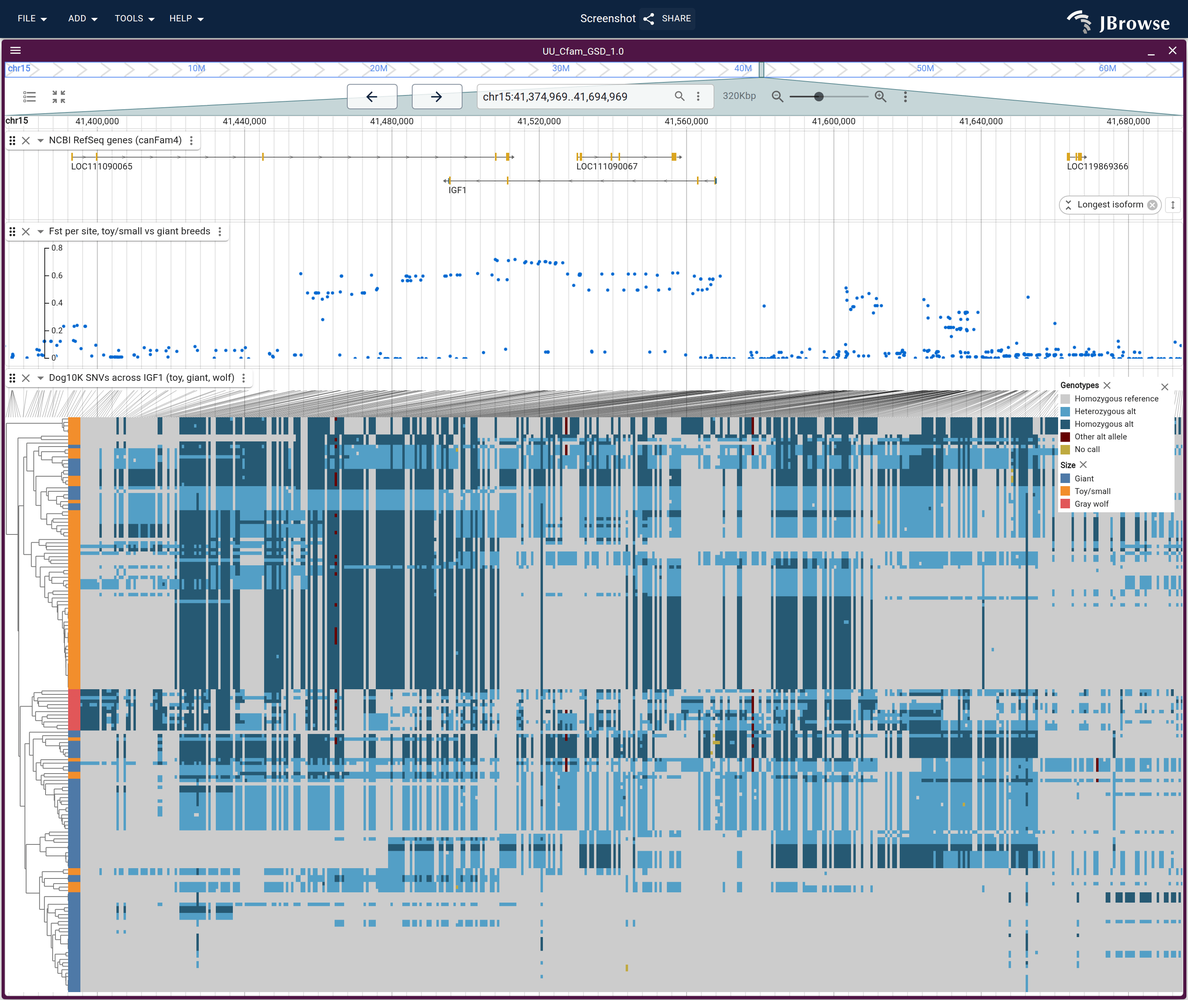
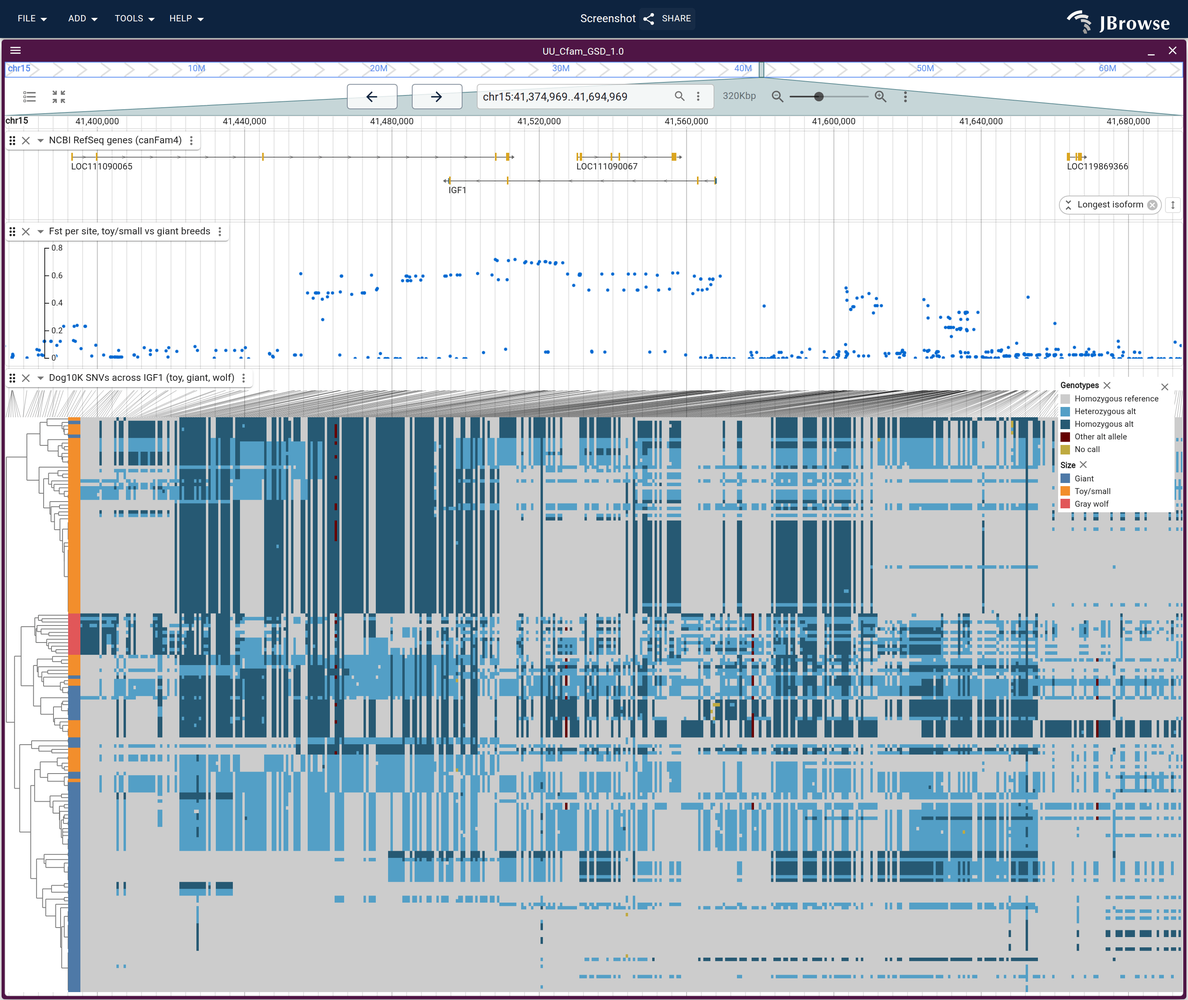
feat(variants): let a session say which locus the clustering runs over
Review, on dog10k-igf1-haplotype: "not sure if it should may cluster in
narrower area and then zoom out."

It should, and it is measurably the better figure. Clustering is region-scoped,
so over the whole 320 kb window the estimator is fed as many undifferentiated
columns as separating ones. Ordering the rows on the 140 kb differentiated core
and drawing the published window instead takes the size swatch from 22 colour
blocks down to 17, and the two longest blocks from 49% of painted rows to 67%
-- the same summary the window sweep in the spec comment is scored on, so the
two are comparable.

`LinearMultiSampleVariantDisplay` takes `clusterRegion` beside `runClustering`:
a locstring, whitespace-separated for several, resolved against the assembly on
the client because that is what turns a locstring into a region. It throws on a
bad refName or an empty range rather than falling back to the visible region, so
a typo cannot quietly cluster over whatever happened to be on screen and look
like it worked. Cleared with `runClustering`, since it is the trigger's argument
rather than a setting of its own.

The figure was a click-chain first -- open at the core, cluster, type the wide
window into the location box -- which rendered the same pixels and was wrong
twice: its live link opened the core rather than the frame a reader is looking
at, and "cluster here, look there" lived in the capture instead of in the
session, so no shared link could carry it.
[…]

diff --git a/website/src/lib/galleryLinks.generated.ts b/website/src/lib/galleryLinks.generated.ts
@@ -231,7 +231,7 @@ export const specSessionUrls: Record<string, string> = {
   "dog10k-fgf4-retrogene-synteny": "?config=test_data/dog10k/config.json&session=spec-%7B%22views%22%3A%5B%7B%22type%22%3A%22LinearSyntenyView%22%2C%22drawCurves%22%3Afalse%2C%22cigarMode%22%3A%22matches%22%2C%22alpha%22%3A0.45%2C%22tracks%22%3A%5B%5B%22dog10k_fgf4_retro_cfa18%22%5D%2C%5B%22dog10k_fgf4_retro_cfa12%22%5D%5D%2C%22views%22%3A%5B%7B%22assembly%22%3A%22FGF4retro-CFA18%22%2C%22loc%22%3A%22FGF4retro-CFA18%3A1-2625%22%2C%22tracks%22%3A%5B%7B%22trackId%22%3A%22dog10k_fgf4_retro_cfa18_genes%22%2C%22type%22%3A%22LinearBasicDisplay%22%2C%22height%22%3A55%7D%5D%7D%2C%7B%22assembly%22%3A%22UU_Cfam_GSD_1.0%22%2C%22loc%22%3A%22chr18%3A48%2C869%2C100-48%2C872%2C900%22%2C%22tracks%22%3A%5B%7B%22trackId%22%3A%22canFam4_ncbi_refseq%22%2C%22type%22%3A%22LinearBasicDisplay%22%2C%22height%22%3A60%7D%2C%7B%22trackId%22%3A%22dog10k_fgf4_svs%22%2C%22type%22%3A%22LinearMultiSampleVariantDisplay%22%2C%22height%22%3A690%2C%22colorBy%22%3A%22group%22%7D%5D%7D%2C%7B%22assembly%22%3A%22FGF4retro-CFA12%22%2C%22loc%22%3A%22FGF4retro-CFA12%3A2-2639%22%2C%22tracks%22%3A%5B%7B%22trackId%22%3A%22dog10k_fgf4_retro_cfa12_genes%22%2C%22type%22%3A%22LinearBasicDisplay%22%2C%22height%22%3A55%7D%5D%7D%5D%7D%5D%7D&sessionName=Screenshot",
   "dog10k-cyp1a2-nonsense": "?config=test_data/dog10k/config.json&session=spec-%7B%22views%22%3A%5B%7B%22type%22%3A%22LinearGenomeView%22%2C%22assembly%22%3A%22UU_Cfam_GSD_1.0%22%2C%22loc%22%3A%22chr30%3A38%2C261%2C590-38%2C261%2C690%22%2C%22tracks%22%3A%5B%7B%22trackId%22%3A%22UU_Cfam_GSD_1.0-ReferenceSequenceTrack%22%2C%22type%22%3A%22LinearReferenceSequenceDisplay%22%2C%22showForward%22%3Atrue%2C%22showReverse%22%3Afalse%2C%22showTranslation%22%3Atrue%2C%22height%22%3A80%7D%2C%7B%22trackId%22%3A%22canFam4_ncbi_refseq%22%2C%22type%22%3A%22LinearBasicDisplay%22%2C%22height%22%3A60%7D%2C%7B%22trackId%22%3A%22dog10k_cyp1a2_snvs_positional%22%2C%22type%22%3A%22LinearVariantDisplay%22%2C%22height%22%3A60%2C%22jexlFilters%22%3A%5B%22get(feature%2C'start')%20%3D%3D%2038261634%22%5D%7D%2C%7B%22trackId%22%3A%22dog10k_cyp1a2_snvs%22%2C%22type%22%3A%22LinearMultiSampleVariantDisplay%22%2C%22height%22%3A500%2C%22layout%22%3A%5B%7B%22name%22%3A%22GHND000001%22%2C%22label%22%3A%22German%20Hound%201%22%2C%22color%22%3A%22%230072B2%22%7D%2C%7B%22name%22%3A%22GHND000002%22%2C%22label%22%3A%22German%20Hound%202%22%2C%22color%22%3A%22%230072B2%22%7D%2C%7B%22name%22%3A%22GHND000003%22%2C%22label%22%3A%22German%20Hound%203%22%2C%22color%22%3A%22%230072B2%22%7D%2C%7B%22name%22%3A%22GHND000004%22%2C%22label%22%3A%22German%20Hound%204%22%2C%22color%22%3A%22%230072B2%22%7D%2C%7B%22name%22%3A%22GHND000005%22%2C%22label%22%3A%22German%20Hound%205%22%2C%22color%22%3A%22%230072B2%22%7D%2C%7B%22name%22%3A%22GHND000006%22%2C%22label%22%3A%22German%20Hound%206%22%2C%22color%22%3A%22%230072B2%22%7D%2C%7B%22name%22%3A%22BHSP000001%22%2C%22label%22%3A%22Bohemian%20Shepherd%201%22%2C%22color%22%3A%22%230072B2%22%7D%2C%7B%22name%22%3A%22BHSP000002%22%2C%22label%22%3A%22Bohemian%20Shepherd%202%22%2C%22color%22%3A%22%230072B2%22%7D%2C%7B%22name%22%3A%22BHSP000003%22%2C%22label%22%3A%22Bohemian%20Shepherd%203%22%2C%22color%22%3A%22%230072B2%22%7D%2C%7B%22name%22%3A%22BHSP000004%22%2C%22label%22%3A%22Bohemian%20Shepherd%204%22%2C%22color%22%3A%22%230072B2%22%7D%2C%7B%22name%22%3A%22BHSP000005%22%2C%22label%22%3A%22Bohemian%20Shepherd%205%22%2C%22color%22%3A%22%230072B2%22%7D%2C%7B%22name%22%3A%22BHSP000006%22%2C%22label%22%3A%22Bohemian%20Shepherd%206%22%2C%22color%22%3A%22%230072B2%22%7D%2C%7B%22name%22%3A%22SSHP000001%22%2C%22label%22%3A%22Shetland%20Sheepdog%201%22%2C%22color%22%3A%22%230072B2%22%7D%2C%7B%22name%22%3A%22SSHP000002%22%2C%22label%22%3A%22Shetland%20Sheepdog%202%22%2C%22color%22%3A%22%230072B2%22%7D%2C%7B%22name%22%3A%22SSHP000003%22%2C%22label%22%3A%22Shetland%20Sheepdog%203%22%2C%22color%22%3A%22%230072B2%22%7D%2C%7B%22name%22%3A%22SSHP000004%22%2C%22label%22%3A%22Shetland%20Sheepdog%204%22%2C%22color%22%3A%22%230072B2%22%7D%2C%7B%22name%22%3A%22BRTR000001%22%2C%22label%22%3A%22Black%20Russian%20Terrier%201%22%2C%22color%22%3A%22%230072B2%22%7D%2C%7B%22name%22%3A%22BRTR000002%22%2C%22label%22%3A%22Black%20Russian%20Terrier%202%22%2C%22color%22%3A%22%230072B2%22%7D%2C%7B%22name%22%3A%22BRTR000003%22%2C%22label%22%3A%22Black%20Russian%20Terrier%203%22%2C%22color%22%3A%22%230072B2%22%7D%2C%7B%22name%22%3A%22BRTR000004%22%2C%22label%22%3A%22Black%20Russian%20Terrier%204%22%2C%22color%22%3A%22%230072B2%22%7D%2C%7B%22name%22%3A%22BRTR000005%22%2C%22label%22%3A%22Black%20Russian%20Terrier%205%22%2C%22color%22%3A%22%230072B2%22%7D%2C%7B%22name%22%3A%22KEES000002%22%2C%22label%22%3A%22Keeshond%201%22%2C%22color%22%3A%22%230072B2%22%7D%2C%7B%22name%22%3A%22KEES000003%22%2C%22label%22%3A%22Keeshond%202%22%2C%22color%22%3A%22%230072B2%22%7D%2C%7B%22name%22%3A%22KEES000004%22%2C%22label%22%3A%22Keeshond%203%22%2C%22color%22%3A%22%230072B2%22%7D%2C%7B%22name%22%3A%22KEES000005%22%2C%22label%22%3A%22Keeshond%204%22%2C%22color%22%3A%22%230072B2%22%7D%2C%7B%22name%22%3A%22KEES000006%22%2C%22label%22%3A%22Keeshond%205%22%2C%22color%22%3A%22%230072B2%22%7D%2C%7B%22name%22%3A%22LABR000001%22%2C%22label%22%3A%22Labrador%20Retriever%201%22%2C%22color%22%3A%22%23999999%22%7D%2C%7B%22name%22%3A%22LABR000002%22%2C%22label%22%3A%22Labrador%20Retriever%202%22%2C%22color%22%3A%22%23999999%22%7D%2C%7B%22name%22%3A%22LABR000003%22%2C%22label%22%3A%22Labrador%20Retriever%203%22%2C%22color%22%3A%22%23999999%22%7D%2C%7B%22name%22%3A%22LABR000004%22%2C%22label%22%3A%22Labrador%20Retriever%204%22%2C%22color%22%3A%22%23999999%22%7D%2C%7B%22name%22%3A%22LABR000005%22%2C%22label%22%3A%22Labrador%20Retriever%205%22%2C%22color%22%3A%22%23999999%22%7D%2C%7B%22name%22%3A%22BOXR000001%22%2C%22label%22%3A%22Boxer%201%22%2C%22color%22%3A%22%23999999%22%7D%2C%7B%22name%22%3A%22BOXR000002%22%2C%22label%22%3A%22Boxer%202%22%2C%22color%22%3A%22%23999999%22%7D%2C%7B%22name%22%3A%22BOXR000003%22%2C%22label%22%3A%22Boxer%203%22%2C%22color%22%3A%22%23999999%22%7D%2C%7B%22name%22%3A%22BOXR000004%22%2C%22label%22%3A%22Boxer%204%22%2C%22color%22%3A%22%23999999%22%7D%2C%7B%22name%22%3A%22CLUPGR000001%22%2C%22label%22%3A%22Wolf%201%22%2C%22color%22%3A%22%23E69F00%22%7D%2C%7B%22name%22%3A%22CLUPGR000002%22%2C%22label%22%3A%22Wolf%202%22%2C%22color%22%3A%22%23E69F00%22%7D%2C%7B%22name%22%3A%22CLUPGR000003%22%2C%22label%22%3A%22Wolf%203%22%2C%22color%22%3A%22%23E69F00%22%7D%2C%7B%22name%22%3A%22CLUPGR000004%22%2C%22label%22%3A%22Wolf%204%22%2C%22color%22%3A%22%23E69F00%22%7D%5D%2C%22jexlFilters%22%3A%5B%22jexl%3Aget(feature%2C'start')%20%3D%3D%2038261634%22%5D%7D%5D%7D%5D%7D&sessionName=Screenshot",
   "dog10k-cyp1a2-cohort-copy-number": "?config=test_data/dog10k/config.json&session=spec-%7B%22views%22%3A%5B%7B%22type%22%3A%22LinearGenomeView%22%2C%22assembly%22%3A%22UU_Cfam_GSD_1.0%22%2C%22loc%22%3A%22chr30%3A38%2C210%2C000-38%2C395%2C000%22%2C%22tracks%22%3A%5B%7B%22trackId%22%3A%22canFam4_ncbi_refseq%22%2C%22type%22%3A%22LinearBasicDisplay%22%2C%22height%22%3A90%7D%2C%7B%22trackId%22%3A%22dog10k_cyp1a2_cpg%22%2C%22type%22%3A%22LinearBasicDisplay%22%2C%22height%22%3A62%7D%2C%7B%22trackId%22%3A%22dog10k_cyp1a2_breed_cn%22%2C%22type%22%3A%22LinearMultiRowFeatureDisplay%22%2C%22height%22%3A380%7D%2C%7B%22trackId%22%3A%22dog10k_cyp1a2_cohort_cn%22%2C%22type%22%3A%22LinearMultiRowFeatureDisplay%22%2C%22height%22%3A300%2C%22runClustering%22%3Atrue%7D%5D%7D%5D%7D&sessionName=Screenshot",
-  "dog10k-igf1-haplotype": "?config=test_data/dog10k/config.json&session=spec-%7B%22views%22%3A%5B%7B%22type%22%3A%22LinearGenomeView%22%2C%22assembly%22%3A%22UU_Cfam_GSD_1.0%22%2C%22loc%22%3A%22chr15%3A41%2C375%2C000-41%2C695%2C000%22%2C%22tracks%22%3A%5B%7B%22trackId%22%3A%22canFam4_ncbi_refseq%22%2C%22type%22%3A%22LinearBasicDisplay%22%2C%22geneGlyphMode%22%3A%22longestCoding%22%2C%22height%22%3A80%7D%2C%7B%22trackId%22%3A%22dog10k_igf1_fst%22%2C%22type%22%3A%22LinearManhattanDisplay%22%2C%22height%22%3A150%2C%22scatterPointSize%22%3A4%2C%22minScore%22%3A0%2C%22maxScore%22%3A0.8%7D%2C%7B%22trackId%22%3A%22dog10k_igf1_haplotype%22%2C%22type%22%3A%22LinearMultiSampleVariantMatrixDisplay%22%2C%22height%22%3A760%2C%22lineZoneHeight%22%3A34%2C%22runClustering%22%3Atrue%2C%22colorBy%22%3A%22size%22%7D%5D%7D%5D%7D&sessionName=Screenshot",
+  "dog10k-igf1-haplotype": "?config=test_data/dog10k/config.json&session=spec-%7B%22views%22%3A%5B%7B%22type%22%3A%22LinearGenomeView%22%2C%22assembly%22%3A%22UU_Cfam_GSD_1.0%22%2C%22loc%22%3A%22chr15%3A41%2C375%2C000-41%2C695%2C000%22%2C%22tracks%22%3A%5B%7B%22trackId%22%3A%22canFam4_ncbi_refseq%22%2C%22type%22%3A%22LinearBasicDisplay%22%2C%22geneGlyphMode%22%3A%22longestCoding%22%2C%22height%22%3A80%7D%2C%7B%22trackId%22%3A%22dog10k_igf1_fst%22%2C%22type%22%3A%22LinearManhattanDisplay%22%2C%22height%22%3A150%2C%22scatterPointSize%22%3A4%2C%22minScore%22%3A0%2C%22maxScore%22%3A0.8%7D%2C%7B%22trackId%22%3A%22dog10k_igf1_haplotype%22%2C%22type%22%3A%22LinearMultiSampleVariantMatrixDisplay%22%2C%22height%22%3A760%2C%22lineZoneHeight%22%3A34%2C%22runClustering%22%3Atrue%2C%22clusterRegion%22%3A%22chr15%3A41%2C440%2C000-41%2C580%2C000%22%2C%22colorBy%22%3A%22size%22%7D%5D%7D%5D%7D&sessionName=Screenshot",
   "gallery/copynumber_clustered": "?config=test_data/config_demo.json&session=spec-%7B%22views%22%3A%5B%7B%22type%22%3A%22LinearGenomeView%22%2C%22assembly%22%3A%22hg38%22%2C%22loc%22%3A%22chr3%3A162%2C275%2C163-163%2C360%2C944%22%2C%22tracks%22%3A%5B%7B%22trackId%22%3A%22pur_copynumber_1000g%22%2C%22type%22%3A%22MultiLinearWiggleDisplay%22%2C%22height%22%3A420%2C%22defaultRendering%22%3A%22multirowdensity%22%2C%22autoscale%22%3A%22local%22%2C%22showTree%22%3Afalse%7D%5D%7D%5D%7D&sessionName=Screenshot",
   "gallery/sarscov2_polyprotein": "?config=test_data%2Fsars-cov2%2Fconfig.json&session=spec-{\"views\":[{\"assembly\":\"Wuhan-Hu-1\",\"loc\":\"NC_045512.2:266-21555\",\"type\":\"LinearGenomeView\",\"colorByCDS\":true,\"tracks\":[{\"trackId\":\"ncbi_genes_with_mature_peptides\",\"displaySnapshot\":{\"type\":\"LinearBasicDisplay\",\"subfeatureLabels\":\"below\"}}]}]}",
   "gallery/fiberseq_gapdh": "?config=test_data/config_demo.json&session=spec-%7B%22sessionTracks%22%3A%5B%7B%22type%22%3A%22FeatureTrack%22%2C%22trackId%22%3A%22gencode_promoter_hg38_ucsc%22%2C%22name%22%3A%22GENCODE%20v48%20promoter%20windows%20(UCSC)%22%2C%22assemblyNames%22%3A%5B%22hg38%22%5D%2C%22adapter%22%3A%7B%22type%22%3A%22Gff3TabixAdapter%22%2C%22gffGzLocation%22%3A%7B%22uri%22%3A%22https%3A%2F%2Fjbrowse.org%2Fucsc%2Fhg38%2Fgencode.v48.promoter_windows.sorted.gff3.gz%22%2C%22locationType%22%3A%22UriLocation%22%7D%2C%22index%22%3A%7B%22location%22%3A%7B%22uri%22%3A%22https%3A%2F%2Fjbrowse.org%2Fucsc%2Fhg38%2Fgencode.v48.promoter_windows.sorted.gff3.gz.csi%22%2C%22locationType%22%3A%22UriLocation%22%7D%2C%22indexType%22%3A%22CSI%22%7D%7D%7D%5D%2C%22views%22%3A%5B%7B%22assembly%22%3A%22hg38%22%2C%22loc%22%3A%2212%3A6530000-6539000%22%2C%22type%22%3A%22LinearGenomeView%22%2C%22tracks%22%3A%5B%7B%22trackId%22%3A%22ncbi_refseq_109_hg38_latest%22%2C%22type%22%3A%22LinearBasicDisplay%22%2C%22geneGlyphMode%22%3A%22longestCoding%22%7D%2C%7B%22trackId%22%3A%22gencode_promoter_hg38_ucsc%22%2C%22type%22%3A%22LinearBasicDisplay%22%2C%22height%22%3A50%7D%2C%7B%22trackId%22%3A%22catlas_scatac_celltypes_hg38%22%2C%22type%22%3A%22MultiLinearWiggleDisplay%22%2C%22height%22%3A150%7D%2C%7B%22trackId%22%3A%22PAY22766-nanopore%22%2C%22type%22%3A%22LinearAlignmentsDisplay%22%2C%22height%22%3A450%2C%22colorBy%22%3A%7B%22type%22%3A%22modifications%22%2C%22modifications%22%3A%7B%22shownModifications%22%3A%5B%22a%22%5D%7D%7D%2C%22displayMode%22%3A%22compact%22%2C%22showLegend%22%3Atrue%7D%5D%7D%5D%7D&sessionName=Screenshot",

diff --git a/plugins/variants/src/shared/getMultiSampleVariantClusterAutorun.ts b/plugins/variants/src/shared/getMultiSampleVariantClusterAutorun.ts
@@ -2,20 +2,24 @@ import { getSession } from '@jbrowse/core/util'
 import { getRpcSessionId } from '@jbrowse/core/util/tracks'
 import { setupRunClusteringAutorun } from '@jbrowse/tree-sidebar'
 
+import { parseClusterRegion } from './clusterRegion.ts'
 import { runGenotypeClustering } from './runGenotypeClustering.ts'
 
 import type { ReducedModel } from './clusterModelTypes.ts'
-import type { RpcStatus } from '@jbrowse/core/util'
+import type { Region, RpcStatus } from '@jbrowse/core/util'
 import type { IStateTreeNode } from '@jbrowse/mobx-state-tree'
+import type { LinearGenomeViewModel } from '@jbrowse/plugin-linear-genome-view'
 
 // The multi-sample-variant "Cluster rows by genotype" flavor of the shared
 // declarative-clustering autorun: fires once on `runClustering: true` and runs
-// the real genotype-matrix RPC over the current view regions.
+// the real genotype-matrix RPC over `clusterRegion` if the session named one,
+// or over the current view regions if it did not.
 export function getMultiSampleVariantClusterAutorun(
   self: IStateTreeNode &
     ReducedModel & {
       clusteringReady: boolean
       runClustering?: boolean
+      clusterRegion?: string
       setRunClustering: (arg?: boolean) => void
       setStatusMessage: (status?: RpcStatus) => void
       makeStatusCallback: () => (status: RpcStatus) => void
@@ -24,14 +28,37 @@ export function getMultiSampleVariantClusterAutorun(
   setupRunClusteringAutorun(self, {
     name: 'AutoRunMultiSampleVariantClustering',
     ready: () => self.clusteringReady,
-    run: (view, stopToken, statusCallback) =>
+    run: async (view, stopToken, statusCallback) =>
       runGenotypeClustering({
         model: self,
         rpcManager: getSession(self).rpcManager,
         sessionId: getRpcSessionId(self),
-        regions: view.dynamicBlocks.contentBlocks,
+        regions: await clusterRegions(self, view),
         stopToken,
         statusCallback,
       }),
   })
+}
+
+// The declared locus if there is one, else what is on screen. Resolved here
+// rather than in the RPC because the assembly is what turns a locstring into a
+// region, and only the client has one.
+async function clusterRegions(
+  self: IStateTreeNode & { clusterRegion?: string },
+  view: LinearGenomeViewModel,
+): Promise<Region[]> {
+  const { clusterRegion } = self
+  const assemblyName = view.assemblyNames[0]
+  if (!clusterRegion || !assemblyName) {
+    return view.dynamicBlocks.contentBlocks
+  }
+  // waitForAssembly, not `get`: the autorun can fire on the first ready tick,
+  // before the assembly manager has finished loading refNames, and a locstring
+  // cannot be validated without them
+  const assembly =
+    await getSession(self).assemblyManager.waitForAssembly(assemblyName)
+  if (!assembly) {
+    throw new Error(`assembly ${assemblyName} not found`)
+  }
+  return parseClusterRegion(clusterRegion, assembly, assemblyName)
 }

diff --git a/plugins/variants/src/shared/clusterRegion.ts b/plugins/variants/src/shared/clusterRegion.ts
@@ -1,0 +1,54 @@
+import { parseLocString } from '@jbrowse/core/util'
+
+import type { Region } from '@jbrowse/core/util'
+
+// Only what the parse reads off an assembly, so it stays testable on plain data
+// rather than needing a live MST instance. `Assembly` satisfies it.
+export interface ClusterRegionAssembly {
+  isValidRefName: (refName: string) => boolean
+  getCanonicalRefName2: (refName: string) => string
+  regions?: readonly { refName: string; end: number }[]
+}
+
+// Resolves a display's `clusterRegion` locstring to the regions the clustering
+// RPC runs over, so "cluster here" can be said in a session instead of driven
+// through the location box.
+//
+// It is a locstring rather than a Region object because that is what a user
+// types and what every other declarative launch spec in the app takes; and it
+// takes several, whitespace-separated, because the clustering estimator already
+// accepts a region list (the visible blocks are one) and a multi-region view is
+// the case where "the region I care about" is genuinely more than one span.
+//
+// Throws rather than falling back to the visible region: a locstring with a
+// typo in it would otherwise cluster over whatever happened to be on screen and
+// look like it worked.
+export function parseClusterRegion(
+  locStrings: string,
+  assembly: ClusterRegionAssembly,
+  assemblyName: string,
+): Region[] {
+  return locStrings
+    .trim()
+    .split(/\s+/)
+    .filter(Boolean)
+    .map(locString => {
+      const parsed = parseLocString(locString, refName =>
+        assembly.isValidRefName(refName),
+      )
+      const refName = assembly.getCanonicalRefName2(parsed.refName)
+      // A bare refName means the whole contig, so its length is required rather
+      // than defaulted: a missing length would turn "no length on record" into
+      // an empty region, which reads as the user having typed a bad range.
+      const refLength = assembly.regions?.find(r => r.refName === refName)?.end
+      if (refLength === undefined) {
+        throw new Error(`no length on record for "${refName}"`)
+      }
+      const start = Math.max(parsed.start ?? 0, 0)
+      const end = Math.min(parsed.end ?? refLength, refLength)
+      if (end <= start) {
+        throw new Error(`empty clusterRegion: "${locString}"`)
+      }
+      return { assemblyName, refName, start, end }
+    })
+}

diff --git a/website/scripts/specs/dog10k.ts b/website/scripts/specs/dog10k.ts
@@ -1373,6 +1373,25 @@ export const dog10kSpecs: ScreenshotSpec[] = [
   // context and dilutes the matrix further, so it is not the answer to "zoom
   // out" either.
   //
+  // CLUSTERED ON THE CORE, DRAWN WIDE, which is the other half of the same
+  // review ("not sure if it should may cluster in narrower area and then zoom
+  // out"). It works and it is measurably better: clustering is region-scoped, so
+  // over the whole 320 kb the estimator is fed as many undifferentiated columns
+  // as separating ones. Running it over the 140 kb core instead and then
+  // navigating to the published window takes the row order from 22 colour
+  // blocks down the size swatch to 17, and the two longest blocks from 49% of
+  // painted rows to 67% -- the same summary the window sweep above is scored
+  // on, so the two are comparable.
+  //
+  // It is a `clusterRegion` on the display rather than a click-chain in this
+  // spec. The first version drove the UI -- open at the core, cluster, type the
+  // wide window into the location box -- which worked and was wrong twice: the
+  // figure's live link opened the core rather than the frame a reader is
+  // looking at, and the knowledge "cluster here, look there" lived in the
+  // capture instead of in the session, so no shared link could carry it. The
+  // property makes the whole figure declarative again, and says the same thing
+  // to a user.
+  //
   // `runClustering` orders the rows by genotype similarity. The size swatch
   // comes from the samples TSV and is applied afterwards, so the row order and
   // the swatch are independent.
@@ -1426,6 +1445,10 @@ export const dog10kSpecs: ScreenshotSpec[] = [
           height: 760,
           lineZoneHeight: 34,
           runClustering: true,
+          // the 140 kb differentiated core, not the 320 kb on screen: the rows
+          // are ordered on the columns that separate the panels, then drawn
+          // against the flank that shows where the signal stops
+          clusterRegion: 'chr15:41,440,000-41,580,000',
           colorBy: 'size',
         },
       ],

diff --git a/plugins/variants/src/shared/clusterRegion.test.ts b/plugins/variants/src/shared/clusterRegion.test.ts
@@ -1,0 +1,56 @@
+import { parseClusterRegion } from './clusterRegion.ts'
+
+const assembly = {
+  isValidRefName: (r: string) => ['chr15', '15'].includes(r),
+  getCanonicalRefName2: (r: string) => (r === '15' ? 'chr15' : r),
+  regions: [{ refName: 'chr15', end: 100_000_000 }],
+}
+
+test('a locstring becomes one region on the canonical refName', () => {
+  expect(
+    parseClusterRegion('chr15:41,440,000-41,580,000', assembly, 'dog'),
+  ).toEqual([
+    { assemblyName: 'dog', refName: 'chr15', start: 41_439_999, end: 41_580_000 },
+  ])
+})
+
+test('an alias resolves, and commas are optional', () => {
+  const [region] = parseClusterRegion('15:41440000-41580000', assembly, 'dog')
+  expect(region?.refName).toBe('chr15')
+})
+
+test('several regions, whitespace separated', () => {
+  expect(
+    parseClusterRegion('chr15:1-1000 chr15:2000-3000', assembly, 'dog'),
+  ).toHaveLength(2)
+})
+
+test('a bare refName is the whole contig', () => {
+  expect(parseClusterRegion('chr15', assembly, 'dog')).toEqual([
+    { assemblyName: 'dog', refName: 'chr15', start: 0, end: 100_000_000 },
+  ])
+})
+
+test('a range past the end of the contig is clamped to it', () => {
+  const [region] = parseClusterRegion('chr15:99,999,000-200,000,000', assembly, 'dog')
+  expect(region?.end).toBe(100_000_000)
+})
+
+// Both throw rather than falling back to the visible region: a typo would
+// otherwise cluster over whatever happened to be on screen and look like it
+// worked.
+test('an unknown refName throws', () => {
+  expect(() => parseClusterRegion('chrZZ:1-1000', assembly, 'dog')).toThrow()
+})
+
+test('an empty range throws', () => {
+  expect(() => parseClusterRegion('chr15:500-400', assembly, 'dog')).toThrow(
+    /empty clusterRegion/,
+  )
+})
+
+test('a refName with no length on record throws', () => {
+  expect(() =>
+    parseClusterRegion('chr15', { ...assembly, regions: [] }, 'dog'),
+  ).toThrow(/no length on record/)
+})

diff --git a/plugins/variants/src/shared/MultiSampleVariantBaseModel.ts b/plugins/variants/src/shared/MultiSampleVariantBaseModel.ts
@@ -365,6 +365,17 @@ export default function MultiSampleVariantBaseModelF(
           // getMultiSampleVariantClusterAutorun and cleared afterwards so a
           // saved session never re-triggers it.
           runClustering: types.maybe(types.boolean),
+          /**
+           * #property
+           * Where that run reads its genotypes from, as a locstring
+           * (whitespace-separated for several). Clustering is region-scoped, so
+           * running it over the visible window feeds the estimator as many
+           * undifferentiated columns as separating ones; naming the locus
+           * instead lets a session cluster on the signal and then show it
+           * against its context, which is otherwise a zoom the user has to
+           * perform in the right order. Cleared with `runClustering`.
+           */
+          clusterRegion: types.maybe(types.string),
         }),
       )
       // Unknown keys in an old display snapshot (blockState, showTooltips, the
@@ -741,6 +752,17 @@ export default function MultiSampleVariantBaseModelF(
 
         setRunClustering(arg?: boolean) {
           self.runClustering = arg
+          // the region is the trigger's argument, not a setting of its own: a
+          // saved session must not keep one that no run is coming for
+          if (!arg) {
+            self.clusterRegion = undefined
+          }
+        },
+        /**
+         * #action
+         */
+        setClusterRegion(arg?: string) {
+          self.clusterRegion = arg
         },
         /**
          * #action

diff --git a/website/docs/models/LinearMultiSampleVariantMatrixDisplay.md b/website/docs/models/LinearMultiSampleVariantMatrixDisplay.md
@@ -27,6 +27,7 @@ the whole surface.
 | <span id="property-configuration">**configuration**</span><br><code>configuration: ConfigurationReference(configSchema)</code> |  | [MultiSampleVariantBaseModel](../multisamplevariantbasemodel#property-configuration) |
 | <span id="property-jexlfilters">**jexlFilters**</span><br><span class="cell-more"><button type="button" class="cell-more-trigger"><code>jexlFilters: types.stripDefault( types.maybe(types.array(types.…</code></button><dialog class="cell-dialog"><form method="dialog"><button class="cell-dialog-close" aria-label="Close">✕</button></form><pre><code>jexlFilters: types.stripDefault(&#10;&#160;&#160;&#160;&#160;&#160;&#160;&#160;&#160;&#160;&#160;&#160;&#160;types.maybe(types.array(types.string)),&#10;&#160;&#160;&#160;&#160;&#160;&#160;&#160;&#160;&#160;&#160;&#160;&#160;undefined,&#10;&#160;&#160;&#160;&#160;&#160;&#160;&#160;&#160;&#160;&#160;)</code></pre></dialog></span> |  | [MultiSampleVariantBaseModel](../multisamplevariantbasemodel#property-jexlfilters) |
 | <span id="property-runclustering">**runClustering**</span><br><code>runClustering: types.maybe(types.boolean)</code> |  | [MultiSampleVariantBaseModel](../multisamplevariantbasemodel#property-runclustering) |
+| <span id="property-clusterregion">**clusterRegion**</span><br><code>clusterRegion: types.maybe(types.string)</code> | <span data-pagefind-ignore>Where that run reads its genotypes from, as a locstring (whitespace-separated for several). Clustering is region-scoped, so running it over the visible window feeds the estimator as many undifferentiated columns as separating ones; naming the locus instead lets a session cluster on the signal and then show it against its context, which is otherwise a zoom the user has to perform in the right order. Cleared with `runClustering`.</span> | [MultiSampleVariantBaseModel](../multisamplevariantbasemodel#property-clusterregion) |
 | <span id="property-id">**id**</span><br><code>id: ElementId</code> |  | [BaseDisplay](../basedisplay#property-id) |
 | <span id="property-rpcdrivername">**rpcDriverName**</span><br><code>rpcDriverName: types.maybe(types.string)</code> |  | [BaseDisplay](../basedisplay#property-rpcdrivername) |
 | <span id="property-layout">**layout**</span><br><code>layout: types.stripDefault(types.frozen&lt;S[]&gt;(), [])</code> |  | [TreeSidebarMixin](../treesidebarmixin#property-layout) |
@@ -214,6 +215,7 @@ the whole surface.
 | <span id="action-setshowtree">**setShowTree**</span><br><code>(arg: boolean) =&gt; void</code> |  | [MultiSampleVariantBaseModel](../multisamplevariantbasemodel#action-setshowtree) |
 | <span id="action-setshowbranchlength">**setShowBranchLength**</span><br><code>(arg: boolean) =&gt; void</code> |  | [MultiSampleVariantBaseModel](../multisamplevariantbasemodel#action-setshowbranchlength) |
 | <span id="action-setrunclustering">**setRunClustering**</span><br><code>(arg?: boolean &#124; undefined) =&gt; void</code> |  | [MultiSampleVariantBaseModel](../multisamplevariantbasemodel#action-setrunclustering) |
+| <span id="action-setclusterregion">**setClusterRegion**</span><br><code>(arg?: string &#124; undefined) =&gt; void</code> |  | [MultiSampleVariantBaseModel](../multisamplevariantbasemodel#action-setclusterregion) |
 | <span id="action-setphasedmode">**setPhasedMode**</span><br><code>(arg: string) =&gt; void</code> |  | [MultiSampleVariantBaseModel](../multisamplevariantbasemodel#action-setphasedmode) |
 | <span id="action-setfittoheight">**setFitToHeight**</span><br><code>() =&gt; void</code> | <span data-pagefind-ignore>Enable fit-to-display-height mode: `rowHeight = 0` makes `effectiveRowHeight` divide `availableHeight` across the rows.</span> | [MultiSampleVariantBaseModel](../multisamplevariantbasemodel#action-setfittoheight) |
 | <span id="action-resizeheight">**resizeHeight**</span><br><code>(distance: number) =&gt; number</code> | <span data-pagefind-ignore>Drag-resize the track. In fit-to-display-height mode the new height flows straight into `autoRowHeight`, so the rows stretch with the drag. With a pinned `rowHeight` the rows keep the size the user pinned and the drag reveals more of them — scaling the pin by the same ratio instead would keep content and viewport locked together, so dragging a track taller could not show one extra sample.</span> | [MultiSampleVariantBaseModel](../multisamplevariantbasemodel#action-resizeheight) |

diff --git a/website/docs/models/LinearMultiSampleVariantDisplay.md b/website/docs/models/LinearMultiSampleVariantDisplay.md
@@ -27,6 +27,7 @@ the whole surface.
 | <span id="property-configuration">**configuration**</span><br><code>configuration: ConfigurationReference(configSchema)</code> |  | LinearMultiSampleVariantDisplay |
 | <span id="property-jexlfilters">**jexlFilters**</span><br><span class="cell-more"><button type="button" class="cell-more-trigger"><code>jexlFilters: types.stripDefault( types.maybe(types.array(types.…</code></button><dialog class="cell-dialog"><form method="dialog"><button class="cell-dialog-close" aria-label="Close">✕</button></form><pre><code>jexlFilters: types.stripDefault(&#10;&#160;&#160;&#160;&#160;&#160;&#160;&#160;&#160;&#160;&#160;&#160;&#160;types.maybe(types.array(types.string)),&#10;&#160;&#160;&#160;&#160;&#160;&#160;&#160;&#160;&#160;&#160;&#160;&#160;undefined,&#10;&#160;&#160;&#160;&#160;&#160;&#160;&#160;&#160;&#160;&#160;)</code></pre></dialog></span> |  | [MultiSampleVariantBaseModel](../multisamplevariantbasemodel#property-jexlfilters) |
 | <span id="property-runclustering">**runClustering**</span><br><code>runClustering: types.maybe(types.boolean)</code> |  | [MultiSampleVariantBaseModel](../multisamplevariantbasemodel#property-runclustering) |
+| <span id="property-clusterregion">**clusterRegion**</span><br><code>clusterRegion: types.maybe(types.string)</code> | <span data-pagefind-ignore>Where that run reads its genotypes from, as a locstring (whitespace-separated for several). Clustering is region-scoped, so running it over the visible window feeds the estimator as many undifferentiated columns as separating ones; naming the locus instead lets a session cluster on the signal and then show it against its context, which is otherwise a zoom the user has to perform in the right order. Cleared with `runClustering`.</span> | [MultiSampleVariantBaseModel](../multisamplevariantbasemodel#property-clusterregion) |
 | <span id="property-id">**id**</span><br><code>id: ElementId</code> |  | [BaseDisplay](../basedisplay#property-id) |
 | <span id="property-rpcdrivername">**rpcDriverName**</span><br><code>rpcDriverName: types.maybe(types.string)</code> |  | [BaseDisplay](../basedisplay#property-rpcdrivername) |
 | <span id="property-layout">**layout**</span><br><code>layout: types.stripDefault(types.frozen&lt;S[]&gt;(), [])</code> |  | [TreeSidebarMixin](../treesidebarmixin#property-layout) |
@@ -213,6 +214,7 @@ the whole surface.
 | <span id="action-setshowtree">**setShowTree**</span><br><code>(arg: boolean) =&gt; void</code> |  | [MultiSampleVariantBaseModel](../multisamplevariantbasemodel#action-setshowtree) |
 | <span id="action-setshowbranchlength">**setShowBranchLength**</span><br><code>(arg: boolean) =&gt; void</code> |  | [MultiSampleVariantBaseModel](../multisamplevariantbasemodel#action-setshowbranchlength) |
 | <span id="action-setrunclustering">**setRunClustering**</span><br><code>(arg?: boolean &#124; undefined) =&gt; void</code> |  | [MultiSampleVariantBaseModel](../multisamplevariantbasemodel#action-setrunclustering) |
+| <span id="action-setclusterregion">**setClusterRegion**</span><br><code>(arg?: string &#124; undefined) =&gt; void</code> |  | [MultiSampleVariantBaseModel](../multisamplevariantbasemodel#action-setclusterregion) |
 | <span id="action-setphasedmode">**setPhasedMode**</span><br><code>(arg: string) =&gt; void</code> |  | [MultiSampleVariantBaseModel](../multisamplevariantbasemodel#action-setphasedmode) |
 | <span id="action-setfittoheight">**setFitToHeight**</span><br><code>() =&gt; void</code> | <span data-pagefind-ignore>Enable fit-to-display-height mode: `rowHeight = 0` makes `effectiveRowHeight` divide `availableHeight` across the rows.</span> | [MultiSampleVariantBaseModel](../multisamplevariantbasemodel#action-setfittoheight) |
 | <span id="action-resizeheight">**resizeHeight**</span><br><code>(distance: number) =&gt; number</code> | <span data-pagefind-ignore>Drag-resize the track. In fit-to-display-height mode the new height flows straight into `autoRowHeight`, so the rows stretch with the drag. With a pinned `rowHeight` the rows keep the size the user pinned and the drag reveals more of them — scaling the pin by the same ratio instead would keep content and viewport locked together, so dragging a track taller could not show one extra sample.</span> | [MultiSampleVariantBaseModel](../multisamplevariantbasemodel#action-resizeheight) |

diff --git a/website/docs/models/MultiSampleVariantBaseModel.md b/website/docs/models/MultiSampleVariantBaseModel.md
@@ -52,6 +52,7 @@ the whole surface.
 | <span id="property-configuration">**configuration**</span><br><code>configuration: ConfigurationReference(configSchema)</code> |  | MultiSampleVariantBaseModel |
 | <span id="property-jexlfilters">**jexlFilters**</span><br><span class="cell-more"><button type="button" class="cell-more-trigger"><code>jexlFilters: types.stripDefault( types.maybe(types.array(types.…</code></button><dialog class="cell-dialog"><form method="dialog"><button class="cell-dialog-close" aria-label="Close">✕</button></form><pre><code>jexlFilters: types.stripDefault(&#10;&#160;&#160;&#160;&#160;&#160;&#160;&#160;&#160;&#160;&#160;&#160;&#160;types.maybe(types.array(types.string)),&#10;&#160;&#160;&#160;&#160;&#160;&#160;&#160;&#160;&#160;&#160;&#160;&#160;undefined,&#10;&#160;&#160;&#160;&#160;&#160;&#160;&#160;&#160;&#160;&#160;)</code></pre></dialog></span> |  | MultiSampleVariantBaseModel |
 | <span id="property-runclustering">**runClustering**</span><br><code>runClustering: types.maybe(types.boolean)</code> |  | MultiSampleVariantBaseModel |
+| <span id="property-clusterregion">**clusterRegion**</span><br><code>clusterRegion: types.maybe(types.string)</code> | Where that run reads its genotypes from, as a locstring (whitespace-separated for several). Clustering is region-scoped, so running it over the visible window feeds the estimator as many undifferentiated columns as separating ones; naming the locus instead lets a session cluster on the signal and then show it against its context, which is otherwise a zoom the user has to perform in the right order. Cleared with `runClustering`. | MultiSampleVariantBaseModel |
 | <span id="property-id">**id**</span><br><code>id: ElementId</code> |  | [BaseDisplay](../basedisplay#property-id) |
 | <span id="property-rpcdrivername">**rpcDriverName**</span><br><code>rpcDriverName: types.maybe(types.string)</code> |  | [BaseDisplay](../basedisplay#property-rpcdrivername) |
 | <span id="property-layout">**layout**</span><br><code>layout: types.stripDefault(types.frozen&lt;S[]&gt;(), [])</code> |  | [TreeSidebarMixin](../treesidebarmixin#property-layout) |
@@ -230,6 +231,7 @@ the whole surface.
 | <span id="action-setshowtree">**setShowTree**</span><br><code>(arg: boolean) =&gt; void</code> |  | MultiSampleVariantBaseModel |
 | <span id="action-setshowbranchlength">**setShowBranchLength**</span><br><code>(arg: boolean) =&gt; void</code> |  | MultiSampleVariantBaseModel |
 | <span id="action-setrunclustering">**setRunClustering**</span><br><code>(arg?: boolean &#124; undefined) =&gt; void</code> |  | MultiSampleVariantBaseModel |
+| <span id="action-setclusterregion">**setClusterRegion**</span><br><code>(arg?: string &#124; undefined) =&gt; void</code> |  | MultiSampleVariantBaseModel |
 | <span id="action-setphasedmode">**setPhasedMode**</span><br><code>(arg: string) =&gt; void</code> |  | MultiSampleVariantBaseModel |
 | <span id="action-setfittoheight">**setFitToHeight**</span><br><code>() =&gt; void</code> | Enable fit-to-display-height mode: `rowHeight = 0` makes `effectiveRowHeight` divide `availableHeight` across the rows. | MultiSampleVariantBaseModel |
 | <span id="action-resizeheight">**resizeHeight**</span><br><code>(distance: number) =&gt; number</code> | Drag-resize the track. In fit-to-display-height mode the new height flows straight into `autoRowHeight`, so the rows stretch with the drag. With a pinned `rowHeight` the rows keep the size the user pinned and the drag reveals more of them — scaling the pin by the same ratio instead would keep content and viewport locked together, so dragging a track taller could not show one extra sample. | MultiSampleVariantBaseModel |

diff --git a/website/docs/tutorials/dog10k_selection.md b/website/docs/tutorials/dog10k_selection.md
@@ -176,9 +176,21 @@ the signal starts or stops. Neither edge of the window is the gene's: _IGF1_ is
 41,495,479-41,567,874 and the haplotype runs 40 kb past it upstream and 44 kb
 past it downstream.
 
+Clustering reads the region on screen, so where you run it matters as much as
+what you frame afterwards. Run it at the differentiated core and the estimator
+sees the separating columns; run it over the whole window and those columns are
+diluted by the flank around them. Zoom to the core, cluster there, then widen
+back out: the row order is kept, because it orders rows by name rather than
+being re-derived from what is in view.
+
+A session can say that instead of performing it. The display takes
+`clusterRegion` beside `runClustering`, so a link can open at the window you
+want to read and cluster on the locus you want the rows ordered by, which is
+what the figure below does.
+
 ## Reading it
 
-<Figure caption="SNVs across 320 kb at IGF1 as a matrix, one row per canid and one column per variant, clustered by genotype with size class as the sidebar swatch, under per-site Fst between the same two panels. The upper cluster is the toy and small breeds and the lower the giants, with the wolves between. Fst is near zero at both window edges and high across the gene, so the clusters differ under it." src="/img/dog10k-igf1-haplotype.png" />
+<Figure caption="SNVs across 320 kb at IGF1 as a matrix, one row per canid and one column per variant, with size class as the sidebar swatch, under per-site Fst between the same two panels. The upper cluster is the toy and small breeds and the lower the giants, with the wolves between. Fst is near zero at both window edges and high across the gene, so the clusters differ under it." src="/img/dog10k-igf1-haplotype.png" />
 
 The panel separates into two clusters that correspond to the size classes, and
 the block's boundaries fall within the window, so its extent reads against the
